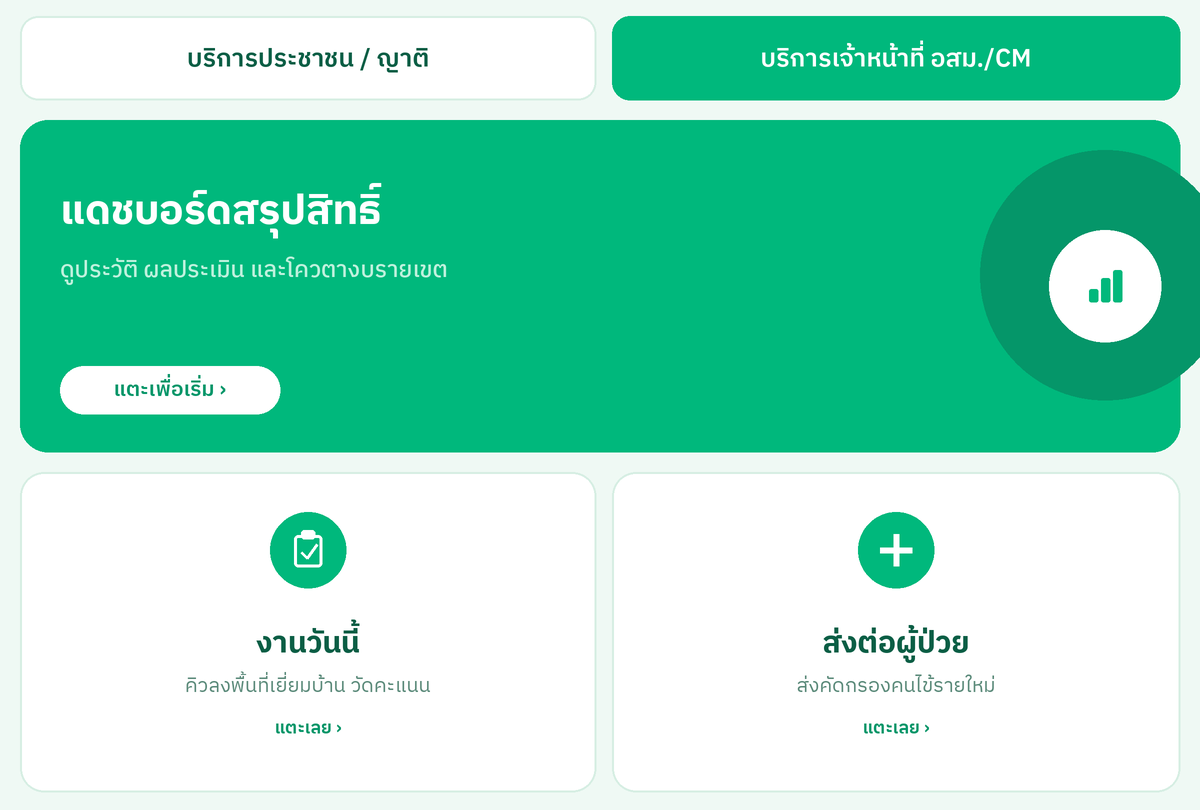
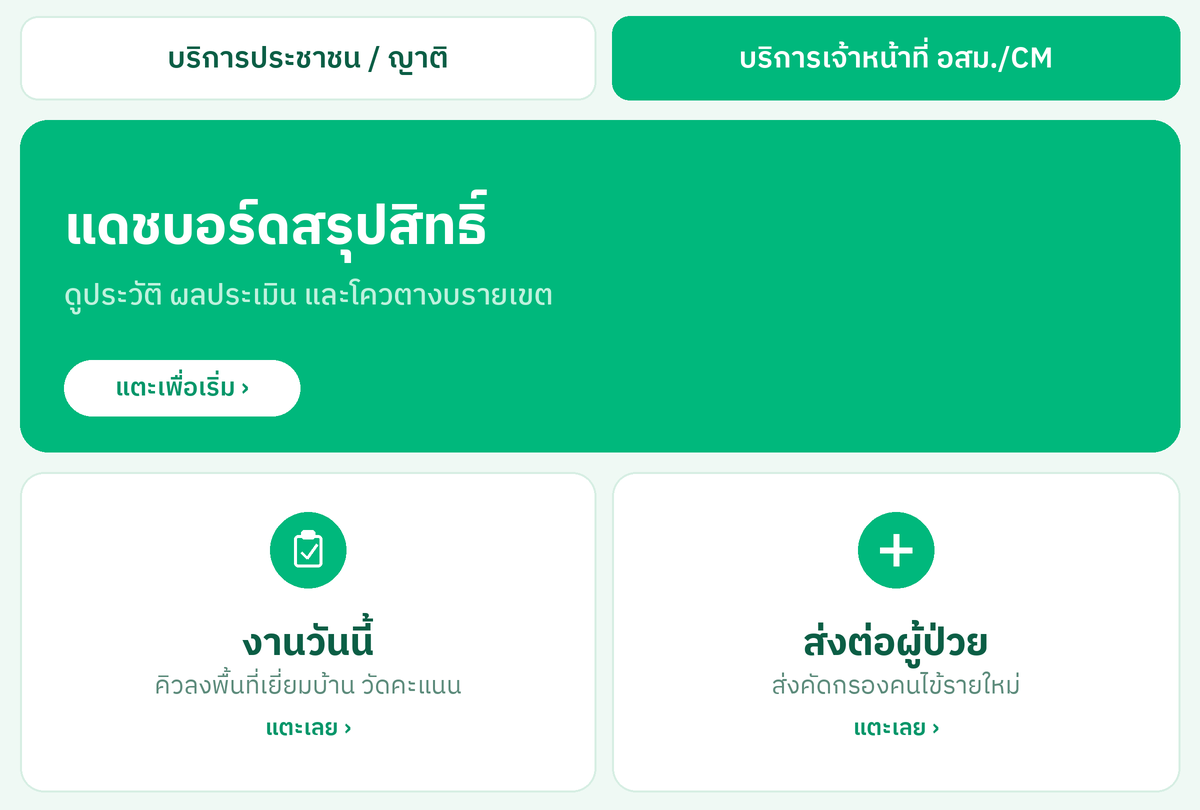
feat: remove LTC branding, add discharge auto-refer trigger, refresh rich menu
- Remove all "LTC" references across UI (rebrand to Diaper / ดูแลระยะยาว)
- HIS Gateway: add "ยืนยัน Discharge →" button wiring the Discharge-Day Match
  auto-referral endpoint (web → backend → DB → LINE push)
- Update rich menu previews: larger/clearer IBM Plex Sans Thai, circle widget removed
- Frontend already routes through env-driven API_BASE; Command Center live DB strip

diff --git a/smartelder/app/components/HISGatewayTab.jsx b/smartelder/app/components/HISGatewayTab.jsx
@@ -1,5 +1,6 @@
 'use client';
 import { useState } from 'react';
+import { API_BASE } from '../lib/api';
 
 /* Simulated HOSxP feed — Anonymized, No Hospital */
 const HIS_FEED = [
@@ -15,7 +16,25 @@ const HIS_FEED = [
 
 export default function HISGatewayTab() {
   const [filter, setFilter] = useState('all');
+  const [discharged, setDischarged] = useState({}); // hn -> 'loading' | 'done'
   const filtered = filter === 'diaper' ? HIS_FEED.filter(f => f.diaper) : HIS_FEED;
+
+  const confirmDischarge = async (r) => {
+    setDischarged(d => ({ ...d, [r.hn]: 'loading' }));
+    try {
+      const res = await fetch(`${API_BASE}/api/his/confirm-discharge`, {
+        method: 'POST',
+        headers: { 'Content-Type': 'application/json' },
+        body: JSON.stringify({
+          hn: r.hn, name: `ผู้ป่วย ${r.hn}`, symptom: `${r.desc} (${r.icd})`,
+          discharge_date: new Date().toISOString().slice(0, 10), adl_score: 4,
+        }),
+      });
+      setDischarged(d => ({ ...d, [r.hn]: res.ok ? 'done' : 'err' }));
+    } catch {
+      setDischarged(d => ({ ...d, [r.hn]: 'err' }));
+    }
+  };
 
   return (
     <div>
@@ -78,7 +97,18 @@ export default function HISGatewayTab() {
               <span style={{ fontSize: 12, color: 'var(--ink-2)' }}>{r.desc}</span>
               <div>
                 {r.diaper ? (
-                  <span className="chip chip-green" style={{ fontSize: 10 }}>Trigger: สิทธิ์ผ้าอ้อม</span>
+                  <div style={{ display: 'flex', flexDirection: 'column', gap: 4, alignItems: 'flex-start' }}>
+                    <span className="chip chip-green" style={{ fontSize: 10 }}>Trigger: สิทธิ์ผ้าอ้อม</span>
+                    {discharged[r.hn] === 'done' ? (
+                      <span style={{ fontSize: 10, fontWeight: 700, color: '#00B87C' }}>✓ Auto-Refer แล้ว (ล็อคคิวส่ง)</span>
+                    ) : (
+                      <button onClick={() => confirmDischarge(r)} disabled={discharged[r.hn] === 'loading'}
+                        style={{ fontSize: 10, fontWeight: 700, background: '#059669', color: 'white', border: 'none',
+                                 padding: '3px 8px', borderRadius: 4, cursor: 'pointer' }}>
+                        {discharged[r.hn] === 'loading' ? '...' : 'ยืนยัน Discharge →'}
+                      </button>
+                    )}
+                  </div>
                 ) : (
                   <span style={{ fontSize: 11, color: 'var(--ink-4)' }}>No Action</span>
                 )}

diff --git a/smartelder/app/components/RoadmapTab.jsx b/smartelder/app/components/RoadmapTab.jsx
@@ -45,11 +45,11 @@ const PHASES = [
     bg: '#F0FDF4',
     border: '#A7F3D0',
     status: 'future',
-    goal: 'ระบบ LTC ระดับประเทศ รองรับ Super-Aged Society พ.ศ. 2574',
+    goal: 'ระบบดูแลระยะยาว ระดับประเทศ รองรับ Super-Aged Society พ.ศ. 2574',
     items: [
-      { done: false, text: 'National LTC Governance Body — คณะกรรมการผู้สูงอายุแห่งชาติ เป็น Coordinator' },
+      { done: false, text: 'National Governance Body — คณะกรรมการผู้สูงอายุแห่งชาติ เป็น Coordinator' },
       { done: false, text: 'Needs-Based / Case-Mix Financing แทน Flat-Rate 6,000 บาท/คน/ปี' },
-      { done: false, text: 'District-Level System Manager (ต้นแบบจาก Japan LTC CM model)' },
+      { done: false, text: 'District-Level System Manager (ต้นแบบจาก Japan CM model)' },
       { done: false, text: 'Social Daycare + Respite Care infrastructure ทุกจังหวัด' },
       { done: false, text: '50,000 CG พร้อมปฏิบัติงาน (จาก 18,000 ปัจจุบัน)' },
       { done: false, text: 'ผู้ป่วยทุกราย ≤ 3 วันได้รับการดูแล นับจากออกจากโรงพยาบาล' },
@@ -64,7 +64,7 @@ const POLICY_RECS = [
   { num: 3, label: 'Outcome vs Process Indicators', detail: 'เปลี่ยนจาก Process → QoL, Caregiver Burden Index, Family Satisfaction' },
   { num: 4, label: 'Needs-Based Financing', detail: 'Case-Mix แทน Flat-Rate 6,000 THB capitation' },
   { num: 5, label: 'Integrated HIS (interRAI)', detail: 'มาตรฐาน OECD/Canada/Singapore แทน Triple-Entry' },
-  { num: 6, label: 'National LTC Governance', detail: 'คณะกรรมการผู้สูงอายุแห่งชาติ เป็น Coordinator ครอบคลุม 5 กระทรวง' },
+  { num: 6, label: 'National Governance', detail: 'คณะกรรมการผู้สูงอายุแห่งชาติ เป็น Coordinator ครอบคลุม 5 กระทรวง' },
 ];
 
 export default function RoadmapTab() {
@@ -77,7 +77,7 @@ export default function RoadmapTab() {
           STRATEGIC ROADMAP
         </span>
         <h1 style={{ fontSize: 32, fontWeight: 900, marginBottom: 12, letterSpacing: '-0.5px' }}>
-          จาก Pilot สู่ National LTC Platform
+          จาก Pilot สู่ National แพลตฟอร์มดูแลระยะยาว
         </h1>
         <p style={{ fontSize: 15, color: 'rgba(255,255,255,0.75)', maxWidth: 680, lineHeight: 1.6 }}>
           แผน 3 ระยะ ปิด Coverage Gap และรองรับ Super-Aged Society ภายใน พ.ศ. 2574
@@ -137,7 +137,7 @@ export default function RoadmapTab() {
           <div style={{ background: '#0F172A', color: 'white', padding: '6px 14px', borderRadius: 6, fontSize: 13, fontWeight: 800 }}>นโยบาย</div>
           <div>
             <h2 style={{ fontSize: 16, fontWeight: 800, color: 'var(--ink)' }}>6 ข้อเสนอแนะเชิงนโยบาย</h2>
-            <div style={{ fontSize: 12, color: 'var(--ink-4)' }}>จากรายงานวิจัยระบบ LTC ราชวิทยาลัย / ม.มหิดล — สปสช. มีนาคม 2568</div>
+            <div style={{ fontSize: 12, color: 'var(--ink-4)' }}>จากรายงานวิจัยระบบดูแลระยะยาว ราชวิทยาลัย / ม.มหิดล — สปสช. มีนาคม 2568</div>
           </div>
         </div>
         <div style={{ display: 'grid', gridTemplateColumns: 'repeat(3, 1fr)', gap: 16 }}>

diff --git a/smartelder/app/components/PainPointTab.jsx b/smartelder/app/components/PainPointTab.jsx
@@ -7,7 +7,7 @@ export default function PainPointTab() {
       id: 1,
       title: 'การค้นพบผู้ป่วยล่าช้า (Delayed Discovery)',
       pain: 'รอให้ญาติมาแจ้ง หรือรอ อสม. เดินเท้าสำรวจตามบ้าน ทำให้ผู้ป่วยติดเตียงเข้าถึงสิทธิ์ล่าช้าหรือตกหล่นจากระบบ',
-      stats: 'บทที่ 5 รายงาน ม.มหิดล/สปสช. 2568: ผู้สูงอายุถูกคัดกรองเพียง 55% (6.67 ล้านจาก 13.94 ล้านคน) — ผู้สูงอายุ ~6.2 ล้านคน ไม่เคยถูกประเมินภาวะพึ่งพิงเลย และในกลุ่มที่รู้จักระบบแล้ว (338,049 คน ติดบ้าน+ติดเตียง ปี 2567) ยังเข้าถึงบริการ LTC จริงเพียง 60.90% ในเขตเทศบาล และ 81.99% นอกเขตเทศบาล — หมายความว่า ~58,000 คนในเมือง ไม่ได้รับบริการแม้จะอยู่ในรายชื่อ ขณะที่สิทธิ์ผ้าอ้อมต้องมี Care Plan ก่อนจึงจะเบิกได้ จึงสร้างคอขวดตกหล่น 2 ชั้น (ไม่ถูกค้นพบ → ไม่มี Care Plan → ไม่ได้ผ้าอ้อม)',
+      stats: 'บทที่ 5 รายงาน ม.มหิดล/สปสช. 2568: ผู้สูงอายุถูกคัดกรองเพียง 55% (6.67 ล้านจาก 13.94 ล้านคน) — ผู้สูงอายุ ~6.2 ล้านคน ไม่เคยถูกประเมินภาวะพึ่งพิงเลย และในกลุ่มที่รู้จักระบบแล้ว (338,049 คน ติดบ้าน+ติดเตียง ปี 2567) ยังเข้าถึงบริการดูแลระยะยาว จริงเพียง 60.90% ในเขตเทศบาล และ 81.99% นอกเขตเทศบาล — หมายความว่า ~58,000 คนในเมือง ไม่ได้รับบริการแม้จะอยู่ในรายชื่อ ขณะที่สิทธิ์ผ้าอ้อมต้องมี Care Plan ก่อนจึงจะเบิกได้ จึงสร้างคอขวดตกหล่น 2 ชั้น (ไม่ถูกค้นพบ → ไม่มี Care Plan → ไม่ได้ผ้าอ้อม)',
       solution: 'เชื่อมต่อฐานข้อมูล HIS ของ รพ. ดักจับรหัสโรค (เช่น I63.9 Stroke) ทันทีที่แพทย์วินิจฉัย และส่งเรื่องเข้าแพลตฟอร์มอัตโนมัติ',
       highlight: 'Auto Pre-screen & Fast-track ภายใน 7 วัน',
     },
@@ -15,7 +15,7 @@ export default function PainPointTab() {
       id: 2,
       title: 'คอขวดที่ Care Manager (CM Overload)',
       pain: 'CM 1 คนต้องดูแลผู้ป่วยเกินอัตราส่วน การลงพื้นที่และร่าง Care Plan ด้วยมือใช้เวลานาน ทำให้คิวประเมินค้างท่อเป็นเดือน',
-      stats: 'ระบบ LTC ปี 2567 มี CM 20,220 คน, CG 106,650 คน (อัตราส่วน CG:CM = 5.3:1) แต่ผู้ใช้บริการเฉลี่ย 3.2 คน/CG — ในเขตสุขภาพที่ 10 CG 1 คน ต้องดูแลผู้สูงอายุถึง 7 ราย ขณะที่ค่าตอบแทน CM ต่อ Care Plan เพียง 100 บาท/ราย และ CG รับค่าตอบแทนจริงเฉลี่ยเพียง 1,620 บาท/เดือน (Khongboon 2023) ต่ำกว่า Living Wage 10,000 บาท ถึง 6 เท่า ส่งผลให้ 27.7% ของ CG ในระบบ LTC พิจารณาออกจากงาน',
+      stats: 'ระบบดูแลระยะยาว ปี 2567 มี CM 20,220 คน, CG 106,650 คน (อัตราส่วน CG:CM = 5.3:1) แต่ผู้ใช้บริการเฉลี่ย 3.2 คน/CG — ในเขตสุขภาพที่ 10 CG 1 คน ต้องดูแลผู้สูงอายุถึง 7 ราย ขณะที่ค่าตอบแทน CM ต่อ Care Plan เพียง 100 บาท/ราย และ CG รับค่าตอบแทนจริงเฉลี่ยเพียง 1,620 บาท/เดือน (Khongboon 2023) ต่ำกว่า Living Wage 10,000 บาท ถึง 6 เท่า ส่งผลให้ 27.7% ของ CG ในระบบดูแลระยะยาว พิจารณาออกจากงาน',
       solution: 'ส่ง Line Agent ให้ญาติตอบคำถามพฤติกรรม (Behavioral Q) เบื้องต้น จากนั้น AI จะคำนวณ ADL และร่าง Care Plan อัตโนมัติ CM ทำหน้าที่เพียง "ตรวจสอบและอนุมัติ"',
       highlight: 'ลดภาระงานเอกสารลง 80%',
     },
@@ -23,7 +23,7 @@ export default function PainPointTab() {
       id: 3,
       title: 'กระบวนการเอกสารหลายหน่วยงาน (Fragmented Paperwork)',
       pain: 'รพ. ส่งให้ อสม. → ศูนย์อนามัย → สปสช. / อปท. ขั้นตอนผ่านกระดาษและรอรอบการประชุม ข้อมูลสูญหายและล่าช้า',
-      stats: 'อปท. ที่เข้าร่วมโครงการผ้าอ้อมในปี 2566 มี 1,876 แห่ง ต้องบันทึกข้อมูลซ้ำ 3 ระบบ (3C กรมอนามัย / สปสช. / HOSxP รพ.) ใช้เอกสาร 4 ชุดต่อ Care Plan 1 ราย และรอรอบประชุมอนุกรรมการ LTC ที่จัดเพียง 1–2 ครั้งต่อปี งบค้างเบิกนานหลายเดือน',
+      stats: 'อปท. ที่เข้าร่วมโครงการผ้าอ้อมในปี 2566 มี 1,876 แห่ง ต้องบันทึกข้อมูลซ้ำ 3 ระบบ (3C กรมอนามัย / สปสช. / HOSxP รพ.) ใช้เอกสาร 4 ชุดต่อ Care Plan 1 ราย และรอรอบประชุมอนุกรรมการ ดูแลระยะยาว ที่จัดเพียง 1–2 ครั้งต่อปี งบค้างเบิกนานหลายเดือน',
       solution: 'ใช้สถาปัตยกรรมแบบ Single Source of Truth ทุกหน่วยงานเห็นข้อมูลชุดเดียวกันและอัปเดตสถานะแบบ Real-time',
       highlight: 'ไม่ต้องส่งเอกสารกระดาษ 100%',
     },
@@ -31,7 +31,7 @@ export default function PainPointTab() {
       id: 4,
       title: 'การตรวจสอบและเบิกจ่ายงบประมาณ (Budget Tracking)',
       pain: 'ไม่สามารถติดตามผลการใช้งานจริงได้ สปสช. ไม่รู้ว่าผ้าอ้อมถึงมือผู้ป่วยจริงหรือไม่ และราคากลางจัดซื้อต่ำกว่าตลาดทำให้ กปท. หลายแห่ง "ซื้อของไม่ได้" แม้มีงบ',
-      stats: 'งบ LTC 6,000 บาท/คน/ปี ครอบคลุมต้นทุนจริงเพียง 13–29% (ต้นทุนจริง 24,732–44,677 บาท/คน/ปี) ราคากลางผ้าอ้อม 9.50 บาท/ชิ้น แต่ตลาดจริง 15.27 บาท — ทำให้ กปท.หลายแห่งจัดซื้อไม่ได้ (เครือข่ายผู้ป่วยยื่นหนังสือรัฐมนตรี พ.ย. 2567 ขอปรับราคากลาง) นอกจากนี้ 20% ของ อปท.แจ้งว่าจะ "ยุติโครงการ" เมื่องบ LTC หมด และ 18.02 ล้านชิ้นที่แจกจ่ายปี 2566 ไม่มีระบบยืนยันว่าถึงมือผู้ป่วยจริง',
+      stats: 'งบดูแลระยะยาว 6,000 บาท/คน/ปี ครอบคลุมต้นทุนจริงเพียง 13–29% (ต้นทุนจริง 24,732–44,677 บาท/คน/ปี) ราคากลางผ้าอ้อม 9.50 บาท/ชิ้น แต่ตลาดจริง 15.27 บาท — ทำให้ กปท.หลายแห่งจัดซื้อไม่ได้ (เครือข่ายผู้ป่วยยื่นหนังสือรัฐมนตรี พ.ย. 2567 ขอปรับราคากลาง) นอกจากนี้ 20% ของ อปท.แจ้งว่าจะ "ยุติโครงการ" เมื่องบดูแลระยะยาว หมด และ 18.02 ล้านชิ้นที่แจกจ่ายปี 2566 ไม่มีระบบยืนยันว่าถึงมือผู้ป่วยจริง',
       solution: 'ญาติหรือ อสม. สแกน QR Code ยืนยันการรับของและอัปเดตอาการรายสัปดาห์ ผูกกับเลขบัตรประชาชน',
       highlight: 'ป้องกันการสวมสิทธิ์ 100%',
     }

diff --git a/smartelder/app/components/CMWorkspaceTab.jsx b/smartelder/app/components/CMWorkspaceTab.jsx
@@ -4,8 +4,8 @@ import { API_BASE } from '../lib/api';
 
 const TOOLS = [
   { id: 'adl', label: 'ประเมิน ADL', desc: 'Barthel Index Scoring' },
-  { id: 'careplan', label: 'ร่าง Care Plan', desc: 'แผนดูแล 3C (LTC)' },
-  { id: 'rights', label: 'เช็คสิทธิ์ผ้าอ้อม LTC', desc: 'ตรวจสอบคุณสมบัติ' },
+  { id: 'careplan', label: 'ร่าง Care Plan', desc: 'แผนดูแล 3C (ดูแลระยะยาว)' },
+  { id: 'rights', label: 'เช็คสิทธิ์ผ้าอ้อม ดูแลระยะยาว', desc: 'ตรวจสอบคุณสมบัติ' },
   { id: 'policy', label: 'ค้นหาระเบียบ สปสช.', desc: 'เงื่อนไขเบิกจ่าย' },
 ];
 
@@ -205,7 +205,7 @@ export default function CMWorkspaceTab() {
                    </div>
                    <div>
                      <h2 style={{ fontSize: 16, fontWeight: 700 }}>CM Task Checklist</h2>
-                     <div style={{ fontSize: 11, opacity: 0.9 }}>SOP มาตรฐานการจัดการเคส LTC</div>
+                     <div style={{ fontSize: 11, opacity: 0.9 }}>SOP มาตรฐานการจัดการเคส ดูแลระยะยาว</div>
                    </div>
                 </div>
                 <span style={{ fontWeight: 800, background: 'rgba(0,0,0,0.2)', padding: '4px 10px', borderRadius: 4, fontSize: 12 }}>

diff --git a/smartelder/app/components/LandingTab.jsx b/smartelder/app/components/LandingTab.jsx
@@ -24,7 +24,7 @@ export default function LandingTab({ onEnter }) {
         <div style={{ position: 'relative', zIndex: 10, maxWidth: 800, margin: '0 auto', textAlign: 'center' }}>
           <div style={{ display: 'flex', justifyContent: 'center', marginBottom: 24 }}>
              <div style={{ width: 160, height: 160, display: 'flex', alignItems: 'center', justifyContent: 'center' }}>
-               <img src="/diaper-logo-real.png" alt="LTC Diaper Logo" style={{ width: '100%', height: '100%', objectFit: 'contain', transform: 'scale(2.5)' }} />
+               <img src="/diaper-logo-real.png" alt="Diaper Logo" style={{ width: '100%', height: '100%', objectFit: 'contain', transform: 'scale(2.5)' }} />
              </div>
           </div>
           <span style={{ background: 'rgba(255,255,255,0.2)', padding: '6px 16px', borderRadius: 999, fontSize: 13, fontWeight: 700, letterSpacing: 1, display: 'inline-block', marginBottom: 20 }}>
@@ -35,7 +35,7 @@ export default function LandingTab({ onEnter }) {
             <br />
             <span style={{ color: '#A7F3D0', fontSize: 36, letterSpacing: '-1px' }}>ระบบประสานงานคุ้มครองสิทธิผ้าอ้อมผู้สูงอายุ</span>
             <br />
-            <span style={{ color: 'rgba(255,255,255,0.9)', fontSize: 24, fontWeight: 600, letterSpacing: 0, display: 'inline-block', marginTop: 12 }}>LTC Diaper Auto-Referral Agent</span>
+            <span style={{ color: 'rgba(255,255,255,0.9)', fontSize: 24, fontWeight: 600, letterSpacing: 0, display: 'inline-block', marginTop: 12 }}>Diaper Auto-Referral Agent</span>
           </h1>
           <p style={{ fontSize: 18, color: 'rgba(255,255,255,0.9)', marginBottom: 40, lineHeight: 1.6, maxWidth: 600, margin: '0 auto 40px' }}>
             ลดช่องว่างการเข้าถึงสิทธิ์ เชื่อมต่อโรงพยาบาล, สปสช., อสม., และศูนย์อนามัยเข้าด้วยกันแบบไร้รอยต่อ พร้อม AI ช่วย Care Manager ร่างแผนการดูแลอัตโนมัติ
@@ -87,7 +87,7 @@ export default function LandingTab({ onEnter }) {
                {[
                   { phase: 'DETECT', title: 'ดักจับข้อมูล', action: 'แพทย์บันทึกรหัสโรคลงระบบ HIS', touchpoint: 'ระบบสร้าง Ticket อัตโนมัติ', color: '#2563EB', bg: '#EFF6FF', icon: '<path d="M4 4h16c1.1 0 2 .9 2 2v12c0 1.1-.9 2-2 2H4c-1.1 0-2-.9-2-2V6c0-1.1.9-2 2-2z"></path><polyline points="22,6 12,13 2,6"></polyline>' },
                   { phase: 'EVALUATE', title: 'ประเมินแผน', action: 'Line Agent ซักถามญาติ + AI ร่าง Care Plan', touchpoint: 'CM ยืนยันข้อมูลผ่าน Workspace', color: '#6E4FF6', bg: '#F5F3FF', icon: '<rect x="3" y="11" width="18" height="10" rx="2"></rect><circle cx="12" cy="5" r="2"></circle><path d="M12 7v4"></path>' },
-                  { phase: 'APPROVE', title: 'อนุมัติสิทธิ์', action: 'สปสช. / อปท. พิจารณางบกองทุน LTC', touchpoint: 'แจ้งเตือนอนุมัติ Real-time', color: '#FF9500', bg: '#FFF7ED', icon: '<path d="M22 11.08V12a10 10 0 1 1-5.93-9.14"></path><polyline points="22 4 12 14.01 9 11.01"></polyline>' },
+                  { phase: 'APPROVE', title: 'อนุมัติสิทธิ์', action: 'สปสช. / อปท. พิจารณางบกองทุนดูแลระยะยาว', touchpoint: 'แจ้งเตือนอนุมัติ Real-time', color: '#FF9500', bg: '#FFF7ED', icon: '<path d="M22 11.08V12a10 10 0 1 1-5.93-9.14"></path><polyline points="22 4 12 14.01 9 11.01"></polyline>' },
                   { phase: 'CARE', title: 'ส่งมอบและติดตาม', action: 'อสม. ลงพื้นที่ส่งผ้าอ้อมถึงบ้าน', touchpoint: 'ติดตามสถานะผ่าน Line OA', color: '#00B87C', bg: '#F0FDF4', icon: '<path d="M21 15a2 2 0 0 1-2 2H7l-4 4V5a2 2 0 0 1 2-2h14a2 2 0 0 1 2 2z"></path>' }
                ].map((step, idx) => (
                   <div key={idx} style={{ borderRight: idx < 3 ? '1px solid #E5E7EB' : 'none', display: 'flex', flexDirection: 'column' }}>

diff --git a/smartelder/app/components/PatientDetailTab.jsx b/smartelder/app/components/PatientDetailTab.jsx
@@ -31,7 +31,7 @@ export default function PatientDetailTab() {
             🤖 RAG — หน่วยงานที่เกี่ยวข้อง
           </div>
           <div style={{ display: 'flex', gap: 8, marginBottom: 24 }}>
-            {['สปสช.', 'กปท.', 'LTC Fund', 'กองทุนฟื้นฟูจังหวัด', 'อปท.'].map(tag => (
+            {['สปสช.', 'กปท.', 'กองทุนดูแลระยะยาว', 'กองทุนฟื้นฟูจังหวัด', 'อปท.'].map(tag => (
               <span key={tag} style={{ fontSize: 11, fontWeight: 600, color: 'var(--blue)', border: '1px solid var(--blue-light)', padding: '4px 10px', borderRadius: 6 }}>{tag}</span>
             ))}
           </div>
@@ -96,7 +96,7 @@ export default function PatientDetailTab() {
                 { icon: '🧑⚕️', title: 'อสม. ชุมชน', badge: 'ประสานลงพื้นที่', desc: 'นัดหมายกับญาติก่อนเยี่ยมบ้าน — ขออนุญาตก่อนเข้าบ้านและถ่ายรูป' },
                 { icon: '👩⚕️', title: 'พยาบาลวิชาชีพ', badge: 'เยี่ยมบ้าน + ประเมิน Barthel ADL', desc: 'วัด BP, O2Sat, ประเมินกิจวัตร, บันทึก Care Plan ใน Program 3C กรมอนามัย' },
                 { icon: '🏢', title: 'กปท.', badge: 'จัดส่งผ้าอ้อมฟรี', desc: '3 ชิ้น/วัน — ส่งถึงเคาน์เตอร์ศูนย์อนามัย พร้อม PIN รับของ 6 หลัก' },
-                { icon: '🏛️', title: 'อปท./เทศบาล', badge: 'ลงทะเบียน Caregiver + LTC Fund', desc: 'Caregiver 6,000-10,442 บาท/ปี + ประสานกองสวัสดิการสังคม' },
+                { icon: '🏛️', title: 'อปท./เทศบาล', badge: 'ลงทะเบียน Caregiver + กองทุนดูแลระยะยาว', desc: 'Caregiver 6,000-10,442 บาท/ปี + ประสานกองสวัสดิการสังคม' },
               ].map((step, i) => (
                 <div key={i} style={{ marginBottom: 24, position: 'relative' }}>
                    <div style={{ position: 'absolute', left: -40, top: 0, width: 32, height: 32, borderRadius: '50%', background: 'white', border: '1px solid #CBD5E1', display: 'flex', alignItems: 'center', justifyContent: 'center', fontSize: 16 }}>{step.icon}</div>
@@ -137,7 +137,7 @@ export default function PatientDetailTab() {
                { title: 'นัดหมายเยี่ยมบ้าน', desc: 'นัดกับญาติ/อสม. ก่อนลงพื้นที่', step: 'ขั้นตอน ๒', checked: true },
                { title: 'เยี่ยมบ้าน + ประเมิน Barthel ADL', desc: 'วัด BP, O2Sat, ดัชนีบาร์เธลเอล', step: 'ขั้นตอน ๒', checked: false },
                { title: 'วางแผน Care Plan (Program 3C)', desc: 'บันทึกปัญหาสุขภาพในระบบกรมอนามัย', step: 'ขั้นตอน ๓', checked: false },
-               { title: 'ส่งต่อสหวิชาชีพ', desc: 'กปท. / LTC Fund / อปท.', step: 'ขั้นตอน ๓', checked: false },
+               { title: 'ส่งต่อสหวิชาชีพ', desc: 'กปท. / กองทุนดูแลระยะยาว / อปท.', step: 'ขั้นตอน ๓', checked: false },
              ].map((t, i) => (
                <div key={i} style={{ display: 'flex', gap: 12, padding: 16, border: `1px solid ${t.checked ? '#00B87C' : 'var(--border)'}`, background: t.checked ? '#F0FDF4' : 'var(--surface)', borderRadius: 10 }}>
                   <div style={{ width: 20, height: 20, borderRadius: 4, border: `2px solid ${t.checked ? '#00B87C' : '#CBD5E1'}`, background: t.checked ? '#00B87C' : 'transparent', display: 'flex', alignItems: 'center', justifyContent: 'center', flexShrink: 0, marginTop: 2 }}>

diff --git a/smartelder/app/components/AIAgentTab.jsx b/smartelder/app/components/AIAgentTab.jsx
@@ -5,7 +5,7 @@ import { API_BASE } from '../lib/api';
 const TOOLS = [
   { id: 'adl',       label: 'ADL for Diaper Eligibility',     desc: 'ประเมิน Barthel ADL Score (ต้อง ≤6 จึงจะได้สิทธิ์)' },
   { id: 'careplan',  label: 'Care Plan Draft (Diaper)',     desc: 'ร่าง Care Plan เบิกผ้าอ้อม 3 ชิ้น/วัน' },
-  { id: 'rights',    label: 'เช็คสิทธิ์ผ้าอ้อม LTC',     desc: 'ตรวจสอบสิทธิ์ผ้าอ้อมผู้ใหญ่ สปสช.' },
+  { id: 'rights',    label: 'เช็คสิทธิ์ผ้าอ้อม ดูแลระยะยาว',     desc: 'ตรวจสอบสิทธิ์ผ้าอ้อมผู้ใหญ่ สปสช.' },
   { id: 'policy',    label: 'Policy RAG (Diaper)',          desc: 'ค้นหาระเบียบ สปสช. เรื่องผ้าอ้อม' },
 ];
 
@@ -13,7 +13,7 @@ const EXAMPLES = {
   adl: 'ผู้ป่วย HN-2024-001 ชายอายุ 72 ปี หลัง Stroke I63.9 สัปดาห์ที่ 2\nญาติแจ้งว่า: ผู้ป่วยลุกนั่งเองไม่ได้ ต้องช่วยอาบน้ำ แต่งตัว กินข้าวตักเองได้บ้าง\nเดินต้องมีคนพยุง ควบคุมปัสสาวะและอุจจาระไม่ได้เลย กลั้นไม่ได้',
   careplan: 'ผู้ป่วย Stroke I63.9 อายุ 72 ปี ADL Score = 3/20 (ติดเตียงรุนแรง)\nต้องการ: ผ้าอ้อมผู้ใหญ่ 3 ชิ้น/วัน\nCM: วรรณา ใจดี\nญาติผู้ดูแล: มี 1 คน (ลูกสาว)\nเป้าหมาย: ป้องกันแผลกดทับและรักษาความสะอาด',
   rights: 'ผู้ป่วย HN-2024-001 อายุ 72 ปี\nสิทธิ์: บัตรทอง 30 บาท\nICD: I63.9 Cerebral infarction\nADL Score: 4/20 ติดเตียง\nสถานะการกลั้นขับถ่าย: กลั้นไม่ได้ทั้งปัสสาวะและอุจจาระ',
-  policy: 'ผู้ป่วยที่มีปัญหาการกลั้นขับถ่าย แต่ ADL = 8 (ติดบ้าน) สามารถขอรับสิทธิ์ผ้าอ้อมผู้ใหญ่จากกองทุน LTC หรือ สปสช. ได้หรือไม่? มีเงื่อนไขข้อยกเว้นอย่างไรบ้าง?',
+  policy: 'ผู้ป่วยที่มีปัญหาการกลั้นขับถ่าย แต่ ADL = 8 (ติดบ้าน) สามารถขอรับสิทธิ์ผ้าอ้อมผู้ใหญ่จากกองทุนดูแลระยะยาว หรือ สปสช. ได้หรือไม่? มีเงื่อนไขข้อยกเว้นอย่างไรบ้าง?',
 };
 
 export default function AIAgentTab() {

diff --git a/smartelder/app/components/InsightsTab.jsx b/smartelder/app/components/InsightsTab.jsx
@@ -12,7 +12,7 @@ const SLA_DATA = [
 const GAP_STATUS = [
   { gap: 'B1: ระยะเวลาอนุมัติสิทธิ์ (IMC Gap)',     desc: 'ลดเวลาอนุมัติผ้าอ้อม 3 ชิ้น/วัน จาก 180 วัน เป็น ≤7 วัน', status: 'done' },
   { gap: 'B2: ปัญหาขาดแคลน Care Manager', desc: 'ใช้ AI Draft Care Plan ส่งต่อให้ อสม. หรือญาติประเมิน ADL ทาง Line', status: 'done' },
-  { gap: 'B3: คณะกรรมการอนุมัติล่าช้า',     desc: 'ระบบ Alert กองทุนตำบล (LTC) อัตโนมัติเมื่อเอกสารพร้อม',           status: 'pending' },
+  { gap: 'B3: คณะกรรมการอนุมัติล่าช้า',     desc: 'ระบบ Alert กองทุนตำบล (ดูแลระยะยาว) อัตโนมัติเมื่อเอกสารพร้อม',           status: 'pending' },
   { gap: 'B4: เบิกจ่ายเงินกองทุนช้า',      desc: 'ระบบ Auto-Disbursement ผ่าน PromptPay/Krungthai Corporate',                  status: 'pending' },
 ];
 
@@ -77,7 +77,7 @@ export default function InsightsTab() {
           <div style={{ display: 'flex', alignItems: 'center', justifyContent: 'space-between', marginBottom: 16 }}>
             <div>
               <h2 style={{ fontSize: 15, fontWeight: 700, color: 'var(--ink)' }}>สถานะการแก้ไขปัญหา (Gap Registry)</h2>
-              <p style={{ fontSize: 12, color: 'var(--ink-3)', marginTop: 2 }}>ความคืบหน้าตามแผนยุทธศาสตร์ LTC</p>
+              <p style={{ fontSize: 12, color: 'var(--ink-3)', marginTop: 2 }}>ความคืบหน้าตามแผนยุทธศาสตร์ ดูแลระยะยาว</p>
             </div>
           </div>
 

diff --git a/smartelder/app/page.tsx b/smartelder/app/page.tsx
@@ -41,7 +41,7 @@ export default function HomePage() {
           <div style={{ display: 'flex', alignItems: 'center', justifyContent: 'space-between', height: 80, gap: 16 }}>
             <div style={{ display: 'flex', alignItems: 'center', gap: 16, flexShrink: 0 }}>
               <div style={{ display: 'flex', alignItems: 'center', justifyContent: 'center', width: 64, height: 64, flexShrink: 0 }}>
-                <img src="/diaper-logo-real.png" alt="LTC Diaper Logo" style={{ width: '100%', height: '100%', objectFit: 'contain', transform: 'scale(1.8)' }} />
+                <img src="/diaper-logo-real.png" alt="Diaper Logo" style={{ width: '100%', height: '100%', objectFit: 'contain', transform: 'scale(1.8)' }} />
               </div>
               <div>
                 <div style={{ fontWeight: 800, fontSize: 18, color: 'white', letterSpacing: '-0.2px' }}>LaPooPoo</div>